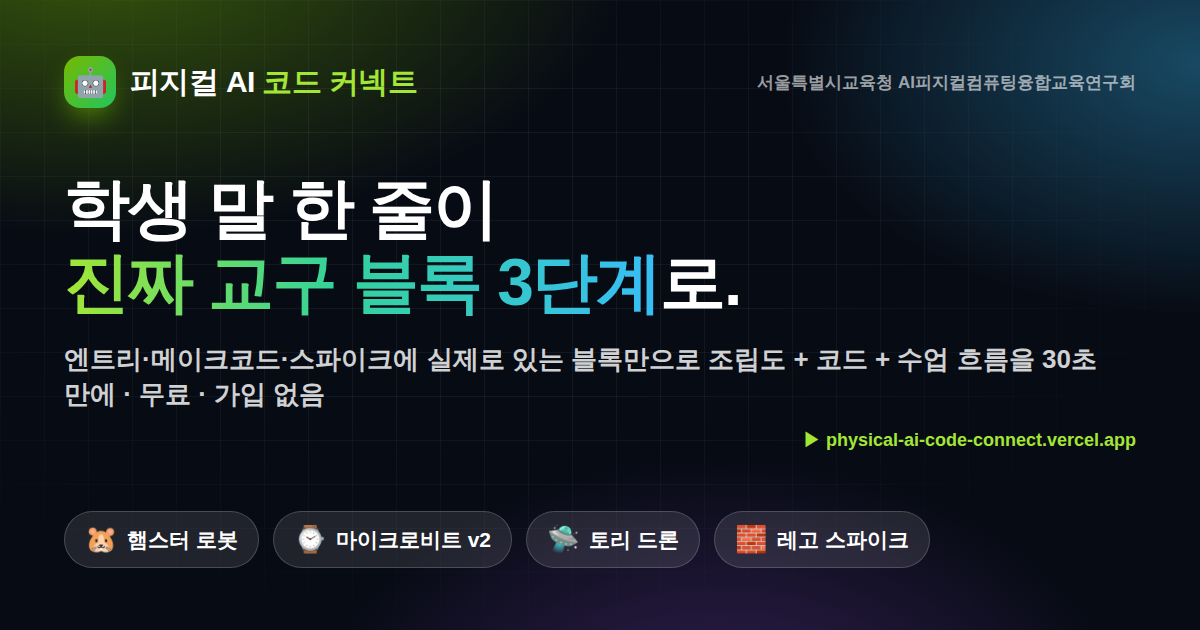
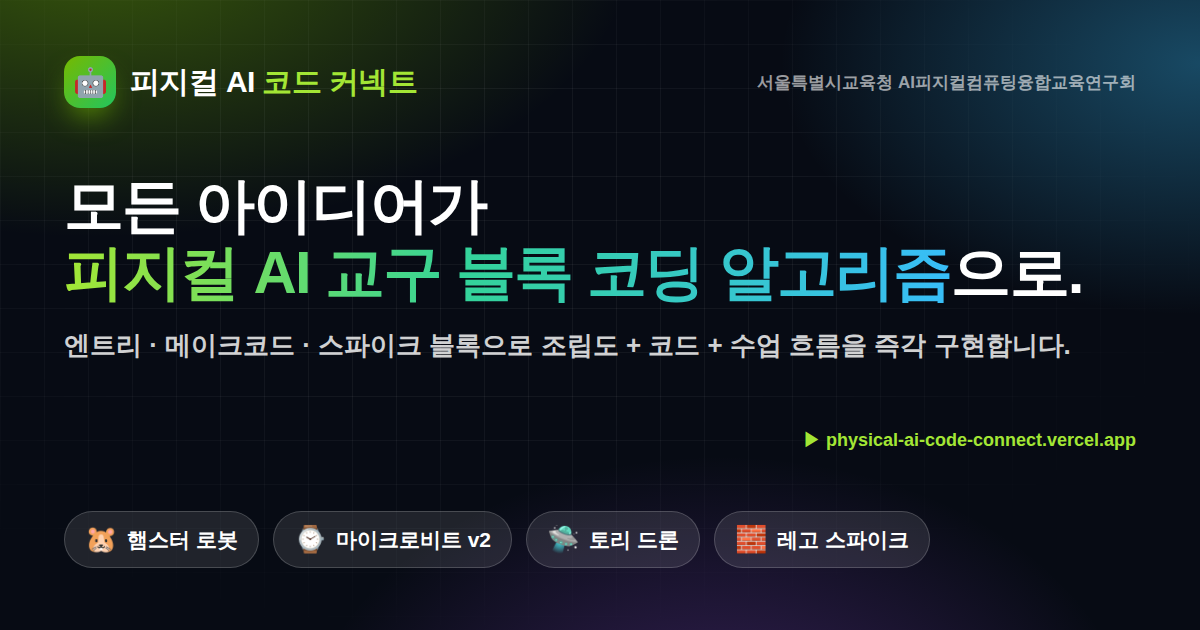
OG copy: 모든 아이디어가 피지컬 AI 교구 블록 코딩 알고리즘으로
Claude-Session: https://claude.ai/code/session_0195STdJQoi5n57nQvAVstUa

Changed region(s): [[0.0308, 0.2714, 0.925, 0.6635]]

diff --git a/index.html b/index.html
@@ -4,25 +4,25 @@
     <meta charset="UTF-8" />
     <link rel="icon" type="image/svg+xml" href="/favicon.svg" />
     <meta name="viewport" content="width=device-width, initial-scale=1.0" />
-    <meta name="description" content="학생 말 한 줄이 진짜 교구 블록 3단계로. 햄스터·마이크로비트 v2·토리 드론·레고 스파이크 — 엔트리·메이크코드·스파이크에 실제로 있는 블록만으로 조립도 + 코드 + 수업 흐름을 30초 만에. 무료 · 가입 없음. 서울특별시교육청 AI피지컬컴퓨팅융합교육연구회" />
+    <meta name="description" content="모든 아이디어가 피지컬 AI 교구 블록 코딩 알고리즘으로. 엔트리·메이크코드·스파이크 블록으로 조립도 + 코드 + 수업 흐름을 즉각 구현합니다. 서울특별시교육청 AI피지컬컴퓨팅융합교육연구회" />
     <!-- 카카오톡·메신저·SNS 링크 미리보기 (Open Graph) -->
     <meta property="og:type" content="website" />
     <meta property="og:site_name" content="피지컬 AI 코드 커넥트" />
-    <meta property="og:title" content="학생 말 한 줄이 진짜 교구 블록 3단계로 — 피지컬 AI 코드 커넥트" />
-    <meta property="og:description" content="햄스터·마이크로비트·토리드론·레고 스파이크. 실제 블록만으로 조립도+코드+수업 흐름을 30초 만에. 무료·가입 없음 · 서울특별시교육청 AI피지컬컴퓨팅융합교육연구회" />
+    <meta property="og:title" content="모든 아이디어가 피지컬 AI 교구 블록 코딩 알고리즘으로 — 피지컬 AI 코드 커넥트" />
+    <meta property="og:description" content="엔트리·메이크코드·스파이크 블록으로 조립도 + 코드 + 수업 흐름을 즉각 구현합니다. 서울특별시교육청 AI피지컬컴퓨팅융합교육연구회" />
     <meta property="og:url" content="https://physical-ai-code-connect.vercel.app/" />
     <meta property="og:image" content="https://physical-ai-code-connect.vercel.app/og.png" />
     <meta property="og:image:width" content="1200" />
     <meta property="og:image:height" content="630" />
-    <meta property="og:image:alt" content="피지컬 AI 코드 커넥트 — 학생 말 한 줄이 진짜 교구 블록 3단계로" />
+    <meta property="og:image:alt" content="피지컬 AI 코드 커넥트 — 모든 아이디어가 피지컬 AI 교구 블록 코딩 알고리즘으로" />
     <meta property="og:locale" content="ko_KR" />
     <meta name="twitter:card" content="summary_large_image" />
-    <meta name="twitter:title" content="학생 말 한 줄이 진짜 교구 블록 3단계로 — 피지컬 AI 코드 커넥트" />
-    <meta name="twitter:description" content="햄스터·마이크로비트·토리드론·레고 스파이크. 실제 블록만으로 조립도+코드+수업 흐름을 30초 만에. 무료·가입 없음" />
+    <meta name="twitter:title" content="모든 아이디어가 피지컬 AI 교구 블록 코딩 알고리즘으로 — 피지컬 AI 코드 커넥트" />
+    <meta name="twitter:description" content="엔트리·메이크코드·스파이크 블록으로 조립도 + 코드 + 수업 흐름을 즉각 구현합니다." />
     <meta name="twitter:image" content="https://physical-ai-code-connect.vercel.app/og.png" />
     <meta name="theme-color" content="#0b1220" />
     <link rel="stylesheet" as="style" crossorigin href="https://cdn.jsdelivr.net/gh/orioncactus/pretendard@v1.3.9/dist/web/static/pretendard.css" />
-    <title>피지컬 AI 코드 커넥트 — 학생 말 한 줄이 진짜 교구 블록으로</title>
+    <title>피지컬 AI 코드 커넥트 — 모든 아이디어가 피지컬 AI 교구 블록 코딩 알고리즘으로</title>
   </head>
   <body>
     <div id="root"></div>
